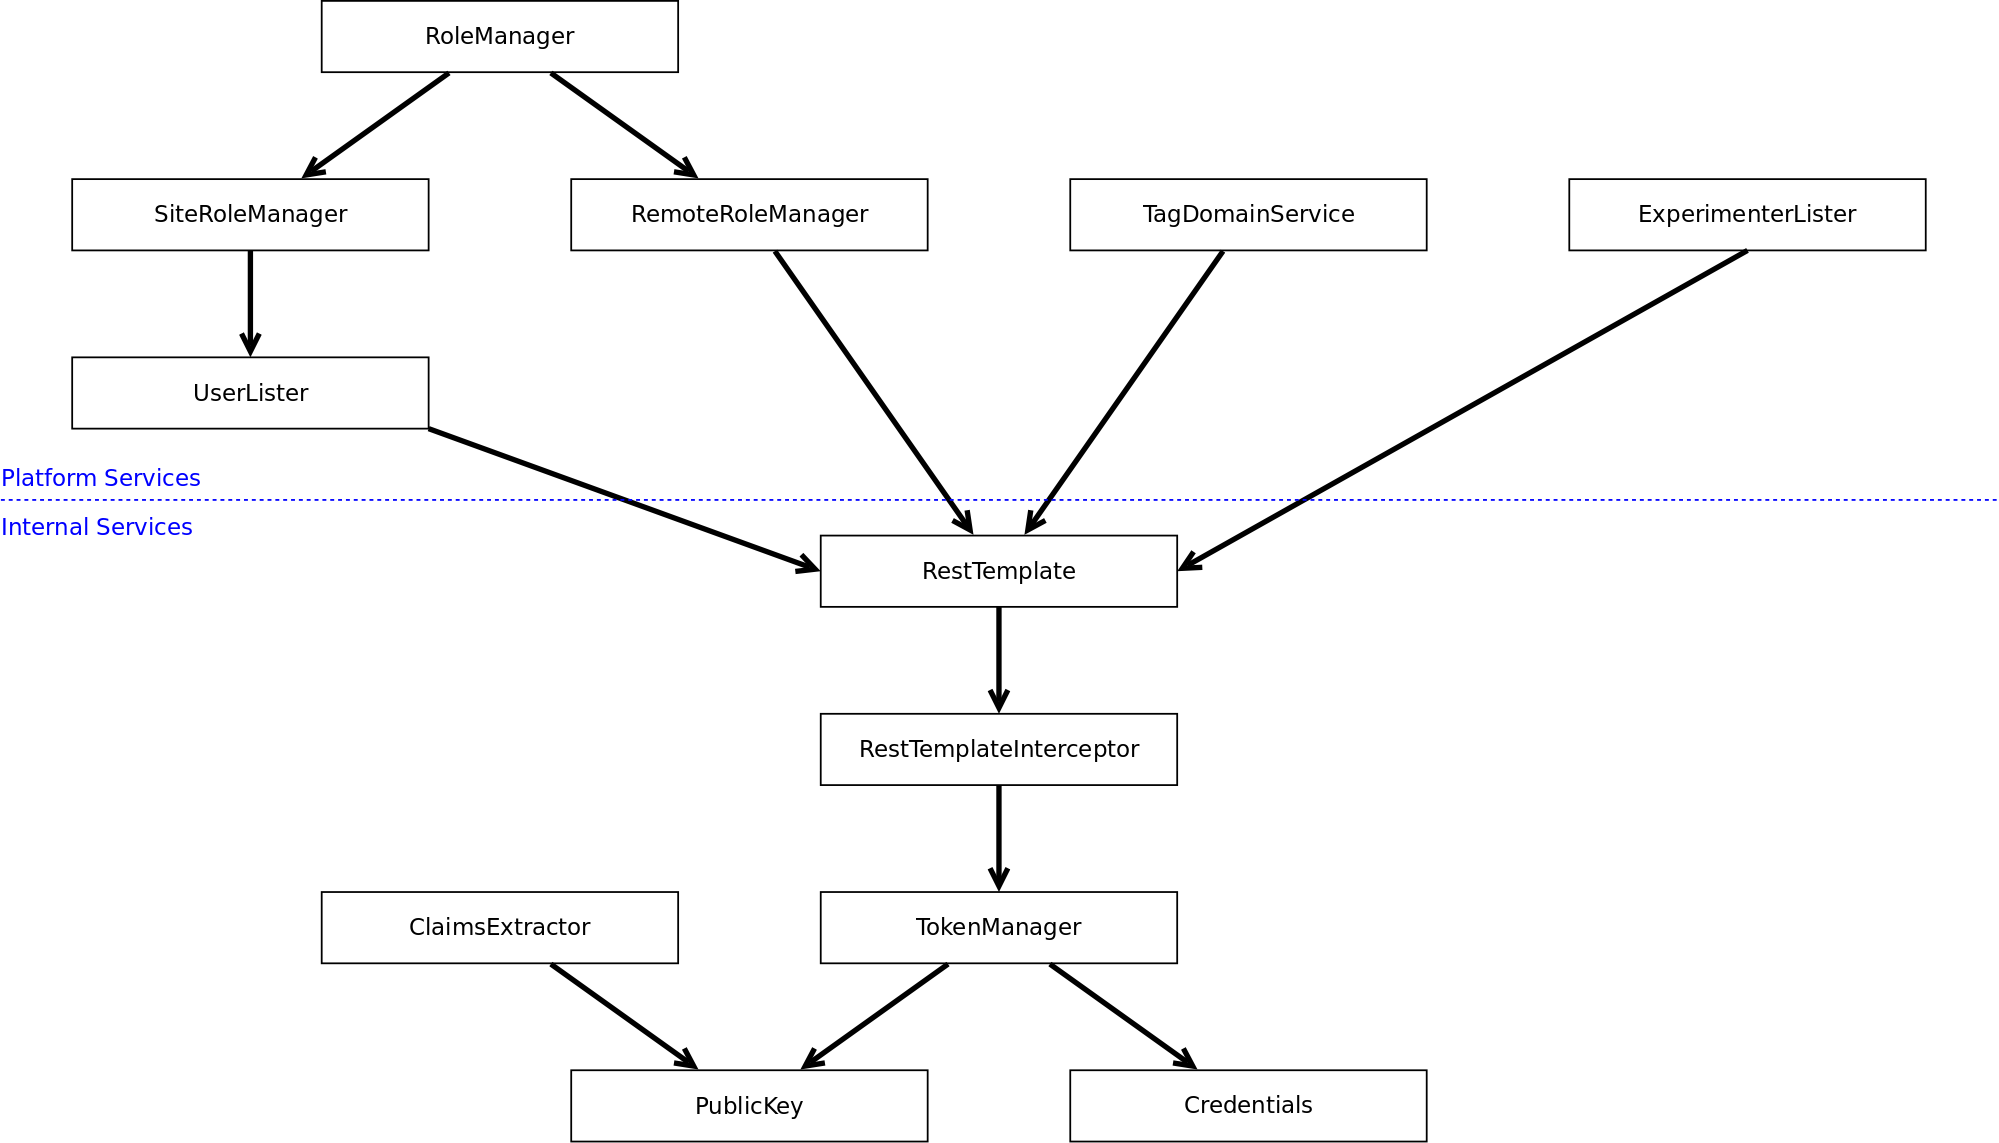
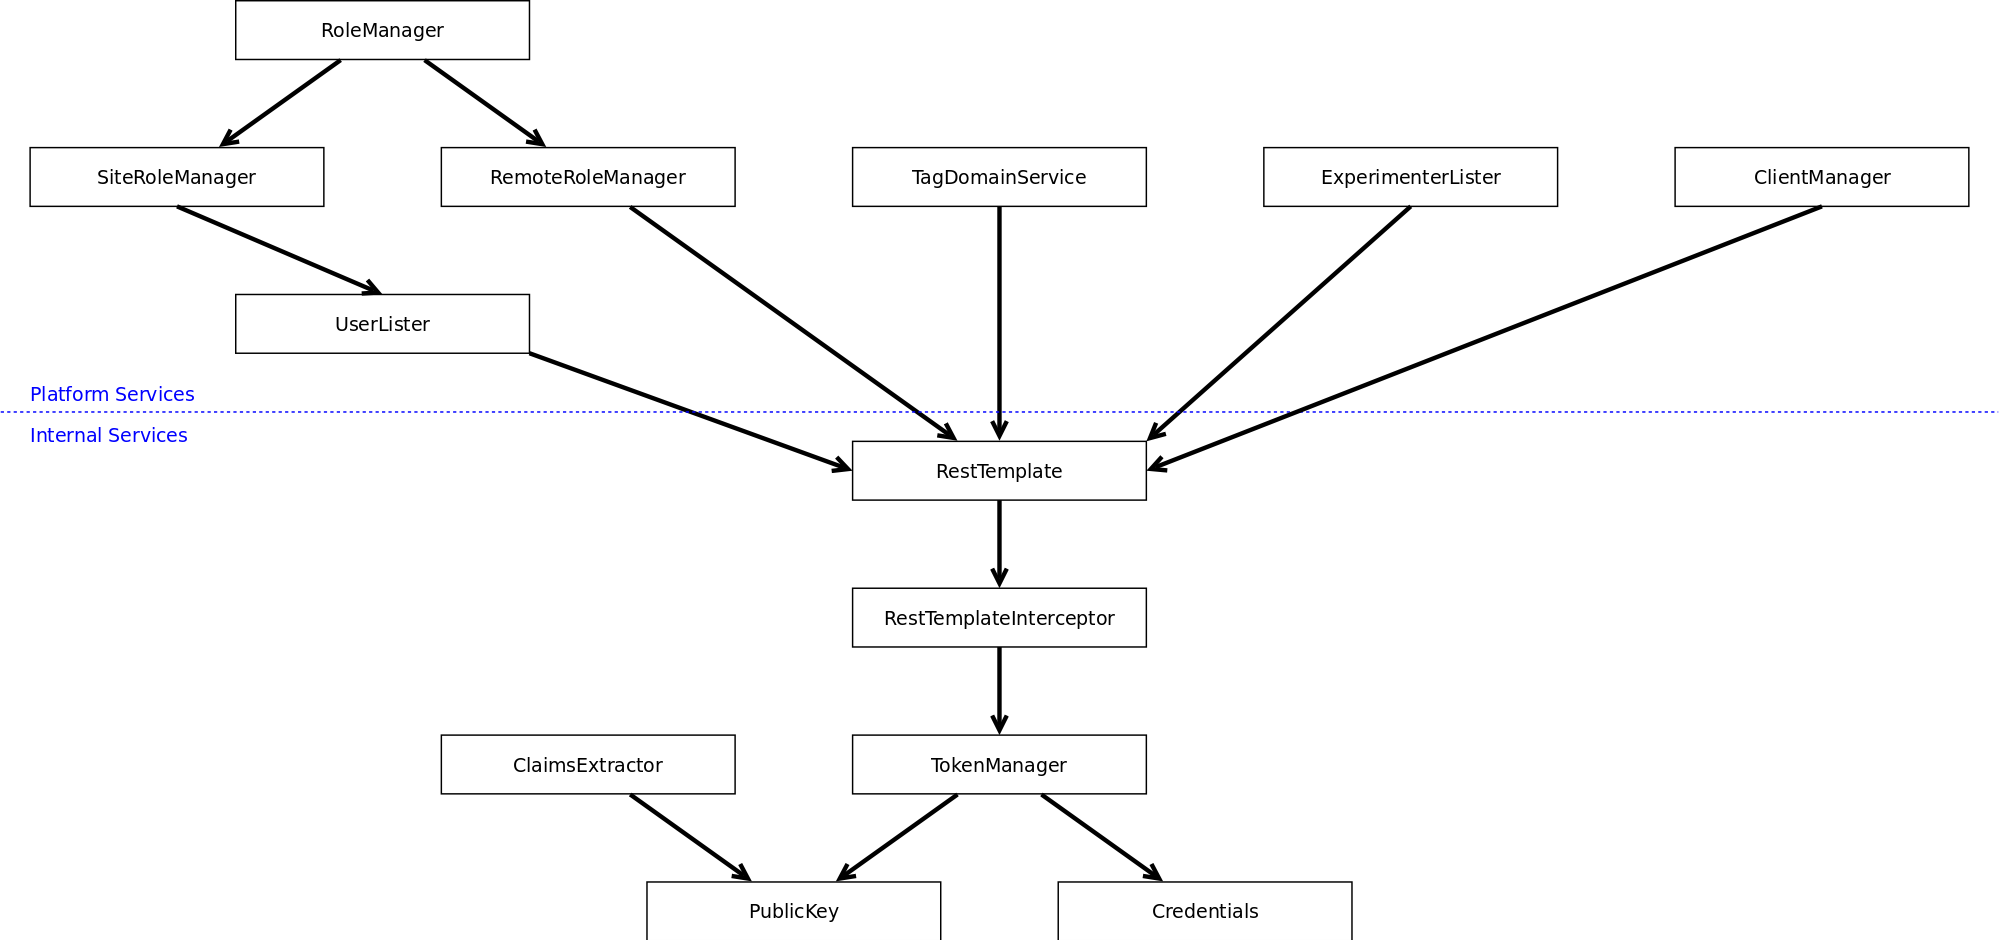
integration with the client API on the AAA

diff --git a/src/main/resources/templates/thsitedetails.html b/src/main/resources/templates/thsitedetails.html
@@ -43,6 +43,13 @@
 		<p class="displaymode" th:if="${isManagerOrAdmin}"><a href="#" class="btn validate" onclick="activateEditMode();">activate edit mode</a></p>
 		
 		
+		<h2>[[${element.name}]] services</h2>		
+		<p>[[${services.size()}]] service[[((${services.size()} != 1)? 's')]]</p>
+		<ul th:if="${services.size()}">
+			<li th:each="e : ${services}"><a th:href="'/sites/' + ${element.name} + '/' + ${e.name}">[[${e.name}]]</a></li>
+		</ul>
+
+		
 		<div th:if="${isManagerOrAdmin}">
 		<h2>[[${element.name}]] managers</h2>
 		<p>[[${managers.size()}]] manager[[((${managers.size()} != 1)? 's')]]</p>
@@ -53,14 +60,17 @@
 		</div>
 		<p th:if="${isAdmin}"><a href="/roles">Add managers</a></p>
 
-		
-		<h2>[[${element.name}]] services</h2>		
-		<p>[[${services.size()}]] service[[((${services.size()} != 1)? 's')]]</p>
-		<ul th:if="${services.size()}">
-			<li th:each="e : ${services}"><a th:href="'/sites/' + ${element.name} + '/' + ${e.name}">[[${e.name}]]</a></li>
+
+		<div th:if="${isManagerOrAdmin}">
+		<h2>[[${element.name}]] credentials</h2>
+		<ul>
+			<li>Client ID: [[${client.client_id}]]</li>
+			<li>Client sub: [[${client.sub}]]</li>
+			<li>Client secret: [[${client.secret}]]</li>
 		</ul>
+		</div>
 
-
+		
 		<div th:if="${isManagerOrAdmin}">
 		<h2>New Service</h2>
 		<p>To add a new entity, please fill the following form</p>

diff --git a/src/main/java/fr/cea/organicity/manager/services/clientmanager/ClientManager.java b/src/main/java/fr/cea/organicity/manager/services/clientmanager/ClientManager.java
@@ -1,0 +1,148 @@
+package fr.cea.organicity.manager.services.clientmanager;
+
+import java.util.Arrays;
+import java.util.HashMap;
+import java.util.List;
+import java.util.Map;
+
+import org.springframework.core.ParameterizedTypeReference;
+import org.springframework.http.HttpEntity;
+import org.springframework.http.HttpHeaders;
+import org.springframework.http.HttpMethod;
+import org.springframework.http.HttpStatus;
+import org.springframework.http.MediaType;
+import org.springframework.http.ResponseEntity;
+import org.springframework.web.client.ResourceAccessException;
+import org.springframework.web.client.RestTemplate;
+
+import fr.cea.organicity.manager.exceptions.remote.BadRequestRemoteException;
+import fr.cea.organicity.manager.exceptions.remote.NotFoundRemoteException;
+import lombok.Data;
+import lombok.extern.log4j.Log4j;
+
+@Log4j
+public class ClientManager {
+
+	private final RestTemplate restTemplate;
+	
+	private final String CREATE_URL = "https://accounts.organicity.eu/permissions/clients2";
+	private final String GET_URL = "https://accounts.organicity.eu/permissions/clients2/{clientID}";
+	
+	private final Map<String, OCClient> clients = new HashMap<>();
+	
+
+	public ClientManager(RestTemplate restTemplate) {
+		this.restTemplate = restTemplate;
+	}
+
+	/**
+	 * Gets or create a client on the Account manager.
+	 * 
+	 * @param clientId
+	 * @return 
+	 * @return the client description
+	 * @throws RuntimeException issue...
+	 */
+	public OCClient getOrCreateClient(String clientId) throws BadRequestRemoteException {
+		try {
+			return getClient(clientId);
+		} catch (NotFoundRemoteException e1) {
+			try {
+				return createClient(clientId);
+			} catch (BadRequestRemoteException e2) {
+				throw new RuntimeException("Error while creating client" + clientId, e2);
+			}
+		}
+	}
+	
+	/**
+	 * Gets an already created client on the Account manager.
+	 * 
+	 * @param clientId
+	 * @return the client description
+	 * @throws NotFoundRemoteException Client does not exists
+	 * @throws RuntimeException Other issues
+	 */
+	public OCClient getClient(String clientId) throws NotFoundRemoteException {
+		
+		// lookup
+		if (clients.get(clientId) != null)
+			return clients.get(clientId);
+				
+		HttpHeaders headers = new HttpHeaders();
+		headers.setContentType(MediaType.APPLICATION_JSON);
+		HttpEntity<RequestContent> entity = new HttpEntity<>(headers);				
+		ParameterizedTypeReference<OCClient> typeRef = new ParameterizedTypeReference<OCClient>() {};
+		
+		try {
+			ResponseEntity<OCClient> response = restTemplate.exchange(GET_URL, HttpMethod.GET, entity, typeRef, clientId);
+			OCClient client = response.getBody();
+			log.info("FOUND client id in remote repository " + clientId);
+			clients.put(clientId, client);
+			return client;
+		} catch (Exception e) {
+
+			if (e instanceof ResourceAccessException) {
+				ResourceAccessException resAccessExeption = (ResourceAccessException) e; 
+				Throwable cause = resAccessExeption.getMostSpecificCause();				
+				if (cause instanceof NotFoundRemoteException) {
+					NotFoundRemoteException notFound = (NotFoundRemoteException) cause;
+					HttpStatus status = notFound.getStatus();
+					if (status == HttpStatus.NOT_FOUND) {
+						throw new NotFoundRemoteException(GET_URL, clientId, OCClient.class);
+					}
+				}
+			}
+			
+			throw new RuntimeException(e);
+		}		
+	}
+	
+	/**
+	 * Creates a client on the Account manager.
+	 * 
+	 * @param clientId
+	 * @return the client description
+	 * @throws BadRequestRemoteException Client already exists
+	 * @throws RuntimeException Other issues
+	 */
+	public OCClient createClient(String clientId) throws BadRequestRemoteException {
+		RequestContent reqContent = new RequestContent(clientId);
+		HttpHeaders headers = new HttpHeaders();
+		headers.setContentType(MediaType.APPLICATION_JSON);
+		HttpEntity<RequestContent> entity = new HttpEntity<>(reqContent, headers);				
+		ParameterizedTypeReference<OCClient> typeRef = new ParameterizedTypeReference<OCClient>() {};
+		
+		try {
+			ResponseEntity<OCClient> response = restTemplate.exchange(CREATE_URL, HttpMethod.POST, entity, typeRef);
+			OCClient client = response.getBody();
+			log.info("CREATED client id in remote repository " + clientId);
+			clients.put(clientId, client);
+			return client;
+		} catch (Exception e) {
+			
+			if (e instanceof ResourceAccessException) {
+				ResourceAccessException resAccessExeption = (ResourceAccessException) e; 
+				Throwable cause = resAccessExeption.getMostSpecificCause();				
+				if (cause instanceof BadRequestRemoteException) {
+					BadRequestRemoteException badRequest = (BadRequestRemoteException) cause;
+					HttpStatus status = badRequest.getStatus();
+					if (status == HttpStatus.BAD_REQUEST) {
+						throw new BadRequestRemoteException(CREATE_URL);
+					}
+				}
+			}
+			
+			throw new RuntimeException(e);
+		}
+	}
+	
+	@Data
+	private class RequestContent {	
+		private final String clientId;
+		private final List<String> roles = Arrays.asList("ocsite");
+		public RequestContent(String clientId) {
+			this.clientId = clientId;
+		}
+	}
+}

diff --git a/src/main/java/fr/cea/organicity/manager/controllers/ui/SitesControllerUI.java b/src/main/java/fr/cea/organicity/manager/controllers/ui/SitesControllerUI.java
@@ -20,12 +20,13 @@ import org.springframework.web.bind.annotation.RequestMapping;
 
 import fr.cea.organicity.manager.domain.OCService;
 import fr.cea.organicity.manager.domain.OCSite;
-import fr.cea.organicity.manager.exceptions.local.MethodNotAllowedLocalException;
 import fr.cea.organicity.manager.exceptions.local.NotFoundLocalException;
+import fr.cea.organicity.manager.exceptions.remote.BadRequestRemoteException;
 import fr.cea.organicity.manager.exceptions.token.RoleComputationTokenException;
 import fr.cea.organicity.manager.repositories.OCServiceRepository;
 import fr.cea.organicity.manager.repositories.OCSiteRepository;
 import fr.cea.organicity.manager.security.Identity;
+import fr.cea.organicity.manager.services.clientmanager.ClientManager;
 import fr.cea.organicity.manager.services.rolemanager.RoleManager;
 import fr.cea.organicity.manager.services.rolemanager.SiteRoleManager;
 
@@ -35,6 +36,7 @@ public class SitesControllerUI {
 	
 	@Autowired private RoleManager rolemanager;
 	@Autowired private SiteRoleManager sitemanager;
+	@Autowired private ClientManager clientmanager;
 
 	@Autowired private OCSiteRepository siterepository;
 	@Autowired private OCServiceRepository serviceRepository;
@@ -49,7 +51,7 @@ public class SitesControllerUI {
 	}
 
 	@GetMapping("{siteName}")
-	public String siteGET(@AuthenticationPrincipal Identity identity, @PathVariable("siteName") String siteName, Model model) throws NotFoundLocalException, RoleComputationTokenException {
+	public String siteGET(@AuthenticationPrincipal Identity identity, @PathVariable("siteName") String siteName, Model model) throws NotFoundLocalException, RoleComputationTokenException, BadRequestRemoteException {
 		OCSite site = siterepository.findOne(OCSite.computeUrn(siteName));
 		boolean isManagerOrAdmin = rolemanager.isSiteManagerOrAdmin(identity.getSub(), siteName);
 		boolean isAdmin = rolemanager.isAdmin(identity.getSub());
@@ -60,13 +62,14 @@ public class SitesControllerUI {
 		model.addAttribute("isManagerOrAdmin", isManagerOrAdmin);
 		model.addAttribute("isAdmin", isAdmin);
 		model.addAttribute("managers", sitemanager.getSiteManagers(siteName));
+		model.addAttribute("client", clientmanager.getOrCreateClient((site.getClientId())));
 
 		return "thsitedetails";
 	}
 
 	@PostMapping("{siteName}")
 	@PreAuthorize("hasPermission(#siteName, 'manager')")
-	public String sitePOST(@AuthenticationPrincipal Identity identity, HttpServletRequest request, @PathVariable("siteName") String siteName, Model model) throws NotFoundLocalException, RoleComputationTokenException {	
+	public String sitePOST(@AuthenticationPrincipal Identity identity, HttpServletRequest request, @PathVariable("siteName") String siteName, Model model) throws NotFoundLocalException, RoleComputationTokenException, BadRequestRemoteException {	
 		OCSite site = siterepository.findOne(OCSite.computeUrn(siteName));
 		boolean isManagerOrAdmin = rolemanager.isSiteManagerOrAdmin(identity.getSub(), siteName);
 		boolean isAdmin = rolemanager.isAdmin(identity.getSub());
@@ -111,7 +114,8 @@ public class SitesControllerUI {
 		model.addAttribute("isManagerOrAdmin", isManagerOrAdmin);
 		model.addAttribute("isAdmin", isAdmin);
 		model.addAttribute("managers", sitemanager.getSiteManagers(siteName));
-
+		model.addAttribute("client", clientmanager.getOrCreateClient((site.getClientId())));
+		
 		return "thsitedetails";
 	}
 	

diff --git a/src/main/java/fr/cea/organicity/manager/config/BeansConfig.java b/src/main/java/fr/cea/organicity/manager/config/BeansConfig.java
@@ -19,6 +19,7 @@ import org.springframework.web.client.RestTemplate;
 import fr.cea.organicity.manager.config.environment.EnvService;
 import fr.cea.organicity.manager.repositories.OCApiCallRepository;
 import fr.cea.organicity.manager.repositories.OCSiteRepository;
+import fr.cea.organicity.manager.services.clientmanager.ClientManager;
 import fr.cea.organicity.manager.services.experimentlister.ExperimentLister;
 import fr.cea.organicity.manager.services.rolemanager.ClaimsExtractor;
 import fr.cea.organicity.manager.services.rolemanager.RemoteRoleManager;
@@ -71,6 +72,11 @@ public class BeansConfig {
 		RestTemplate template = new RestTemplate();
 		template.setInterceptors(interceptors);
 		return template;
+	}
+	
+	@Bean
+	ClientManager getClientManager(RestTemplate restTemplate) {
+		return new ClientManager(restTemplate);
 	}
 	
 	@Bean

diff --git a/src/main/java/fr/cea/organicity/manager/services/clientmanager/OCClient.java b/src/main/java/fr/cea/organicity/manager/services/clientmanager/OCClient.java
@@ -1,0 +1,10 @@
+package fr.cea.organicity.manager.services.clientmanager;
+
+import lombok.Data;
+
+@Data
+public class OCClient {
+	private String sub;
+	private String secret;
+	private String client_id;	
+}

diff --git a/src/main/java/fr/cea/organicity/manager/domain/OCSite.java b/src/main/java/fr/cea/organicity/manager/domain/OCSite.java
@@ -91,4 +91,8 @@ public class OCSite {
     	urn = getUrn();
     	updated = ZonedDateTime.now().format(DateTimeFormatter.ISO_INSTANT);
     }
+
+	public String getClientId() {
+		return "site-" + name;
+	}
 }
